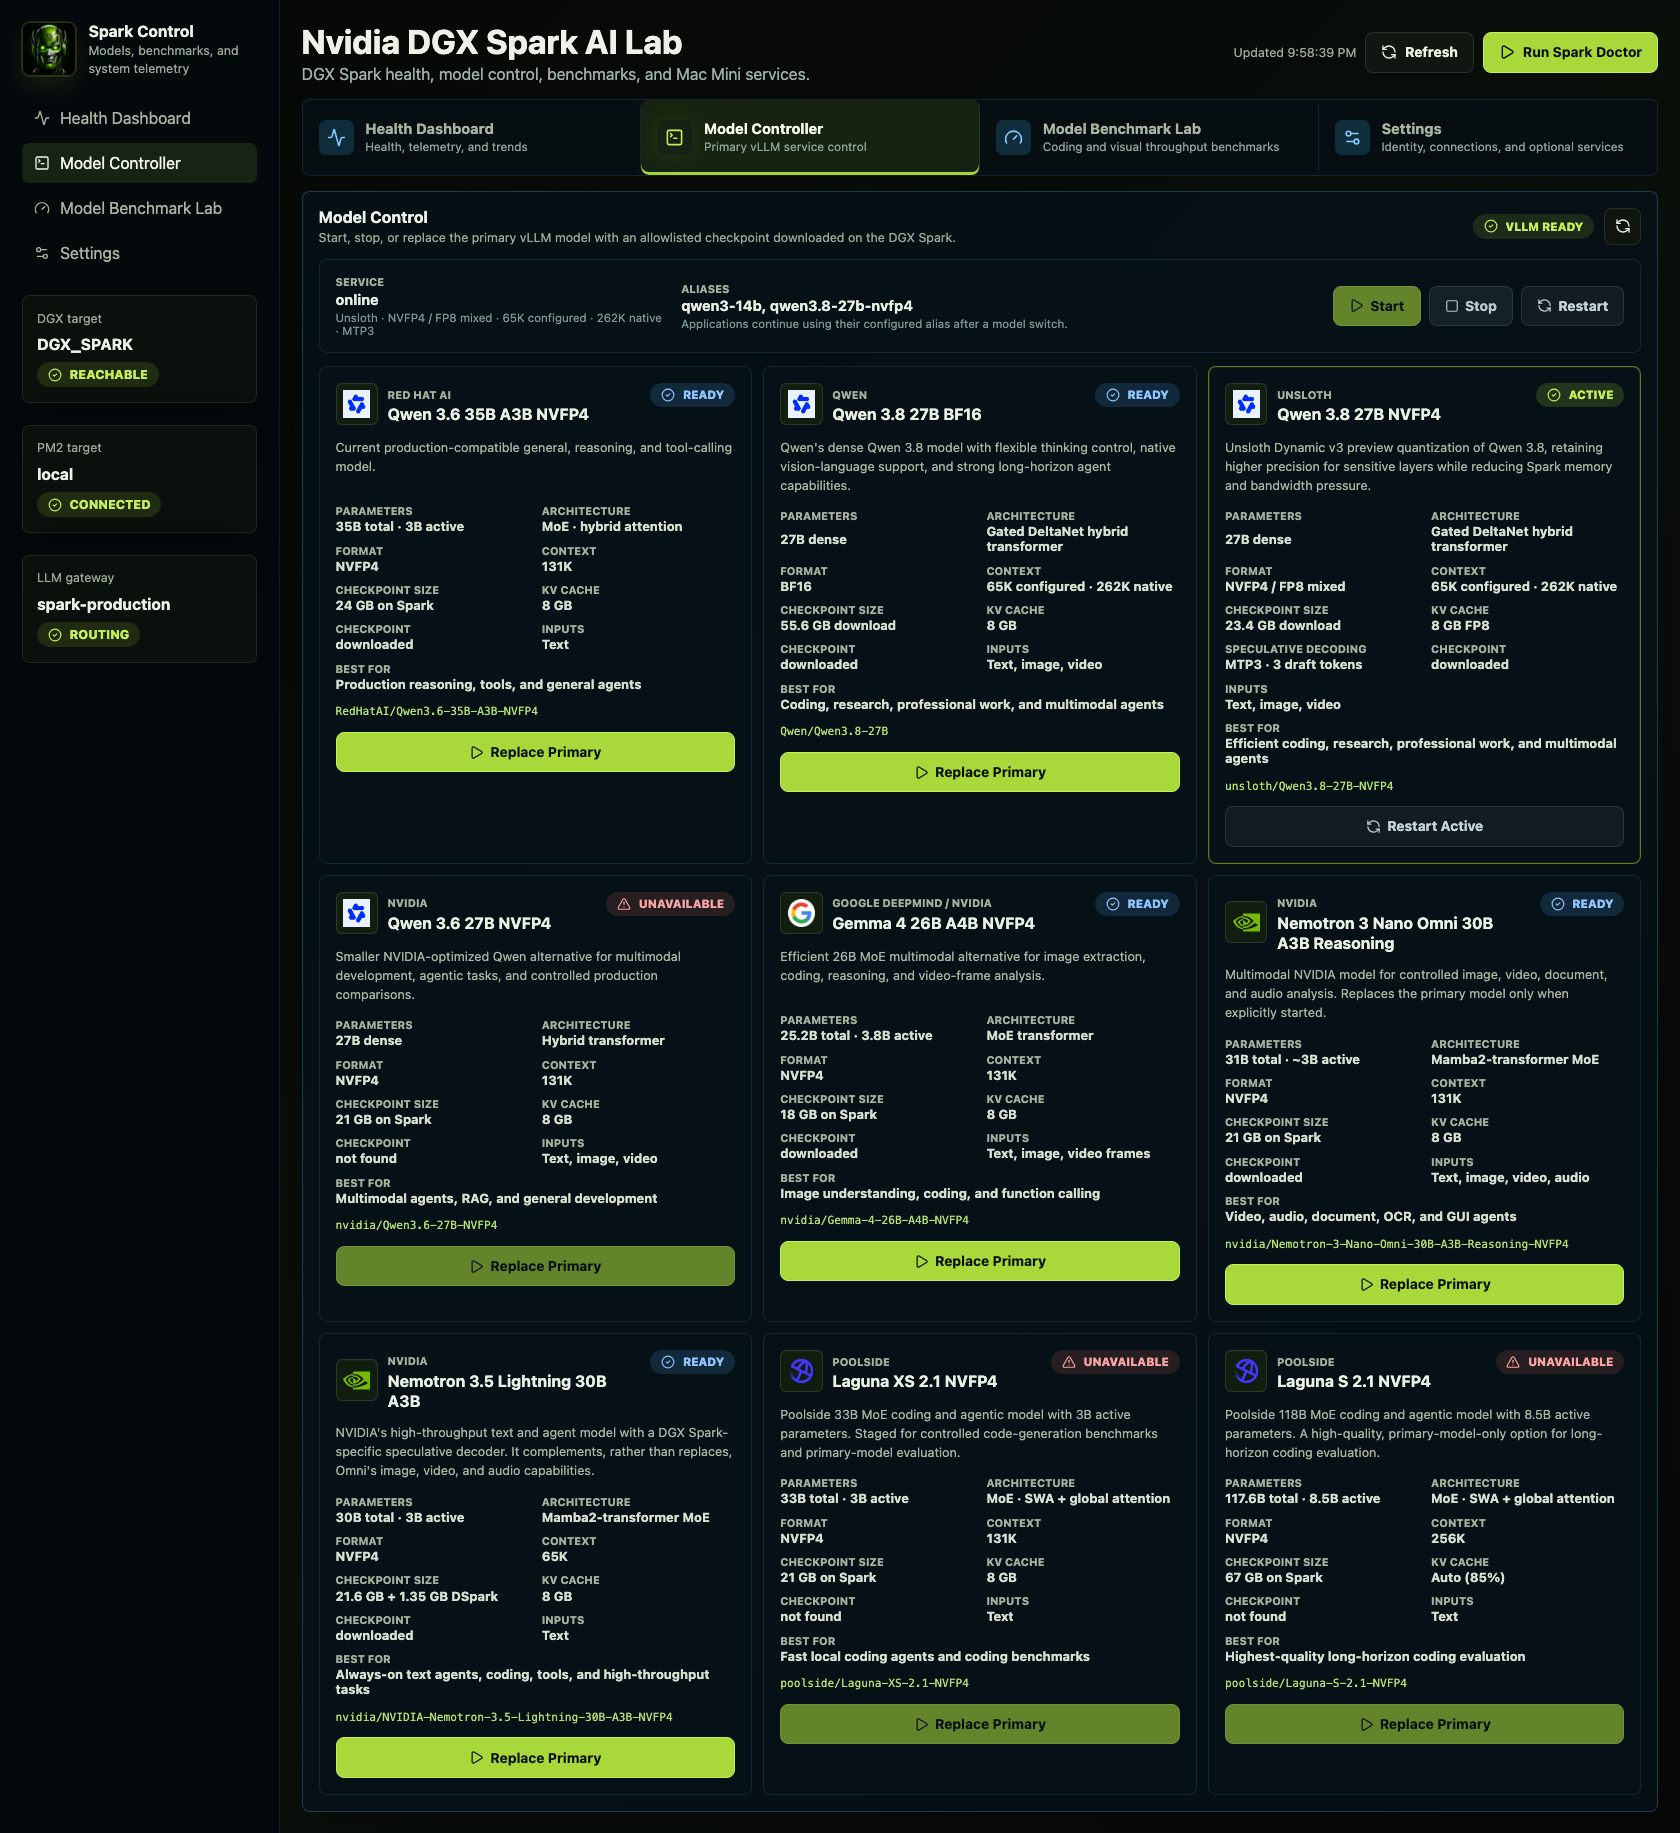
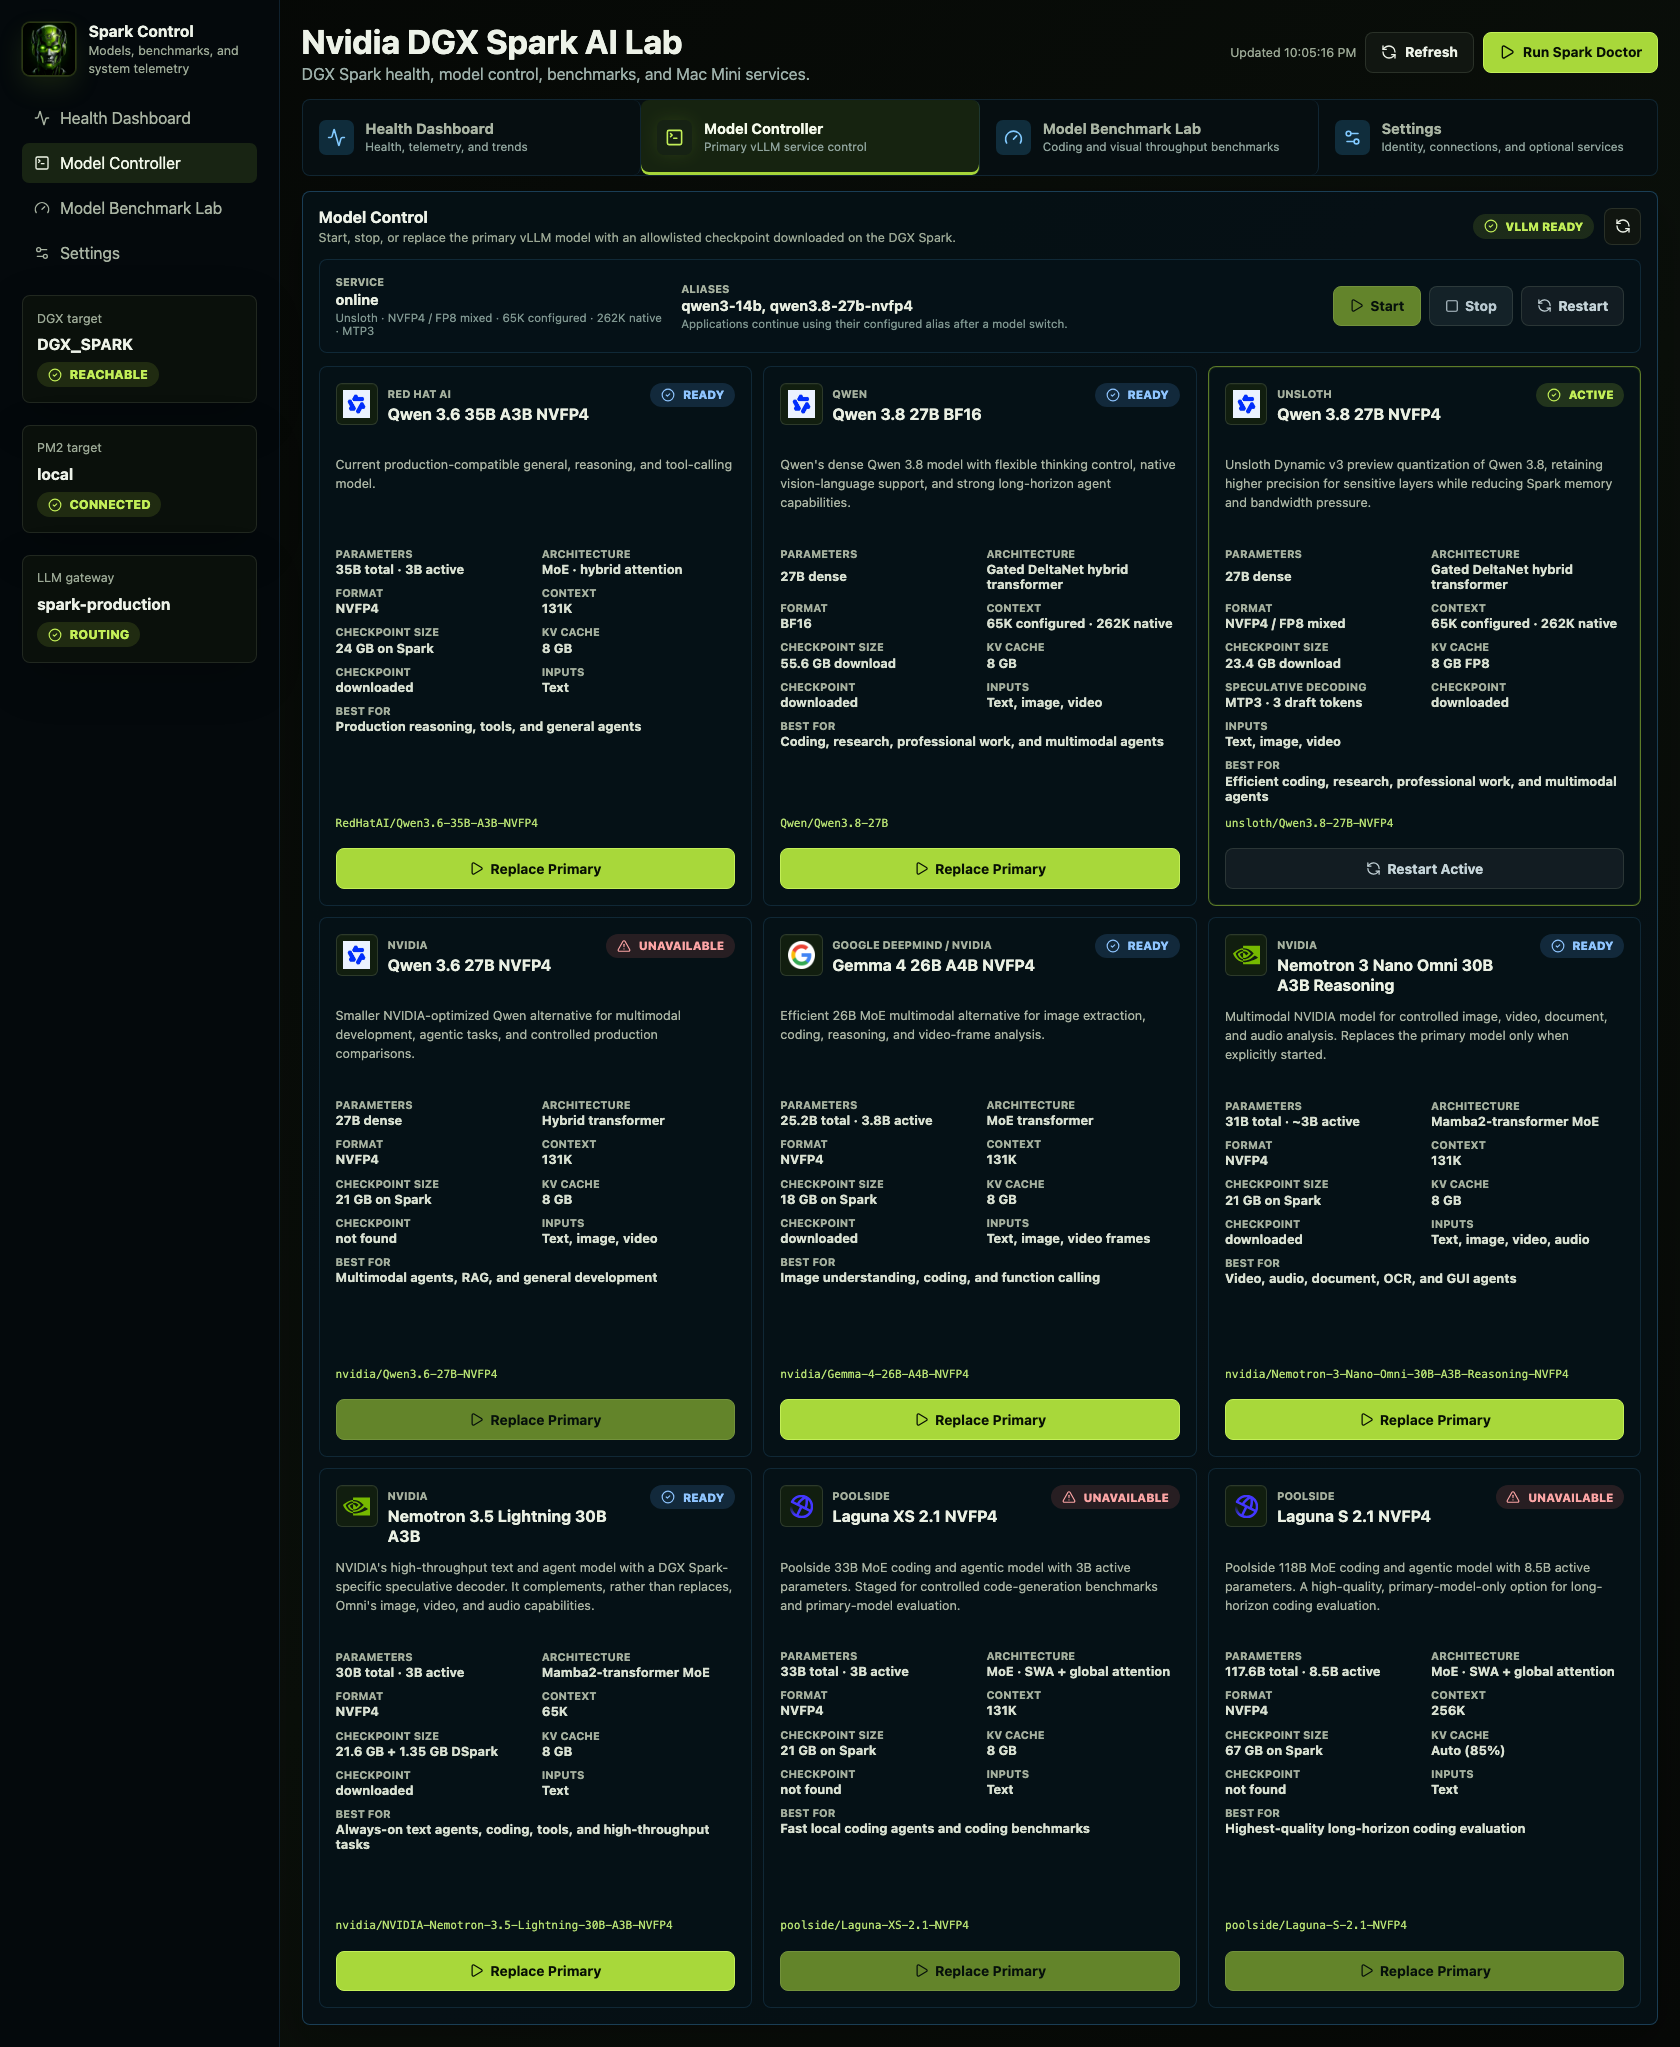
docs: show aligned model cards in controller screenshot

diff --git a/README.md b/README.md
@@ -116,6 +116,8 @@ Review available models, confirm readiness, and replace the active primary model
 
 ![DGX Spark AI Lab model controller](docs/images/model-controller.png)
 
+The current development preview uses equal-height model cards, with repository labels and action buttons aligned along the bottom of each row.
+
 #### Model Inventory and Lifecycle
 
 The controller combines reviewed model recipes with optional Hugging Face cache discovery. Each model card identifies its provider, total and active parameters, architecture, quantization format, context limit, checkpoint size, KV-cache allocation, supported inputs, recommended workload, and configured speculative-decoding method when applicable. For example, the Qwen 3.8 27B NVFP4 profile reports **MTP3** with three draft tokens.
